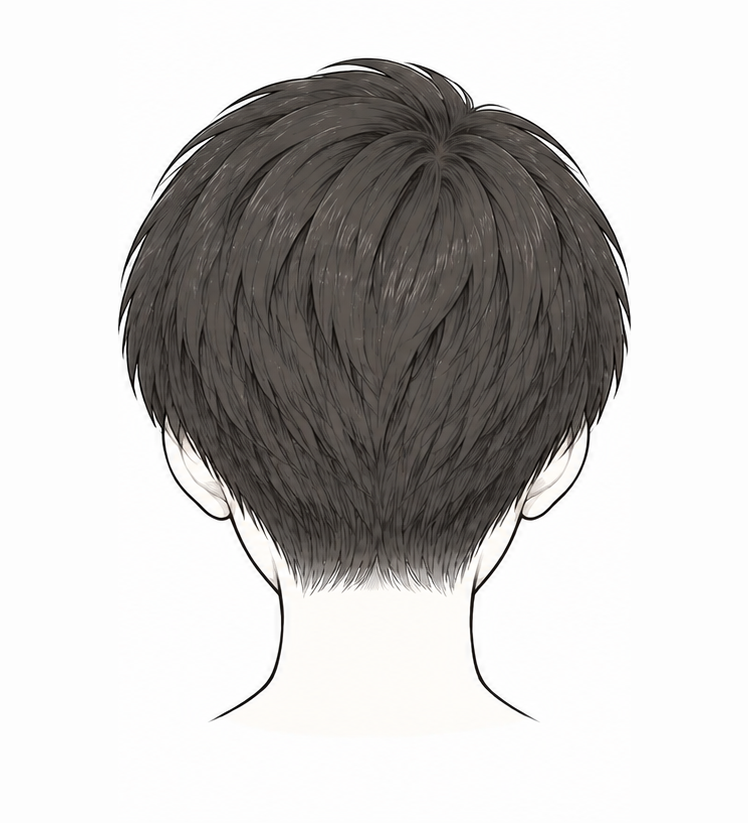
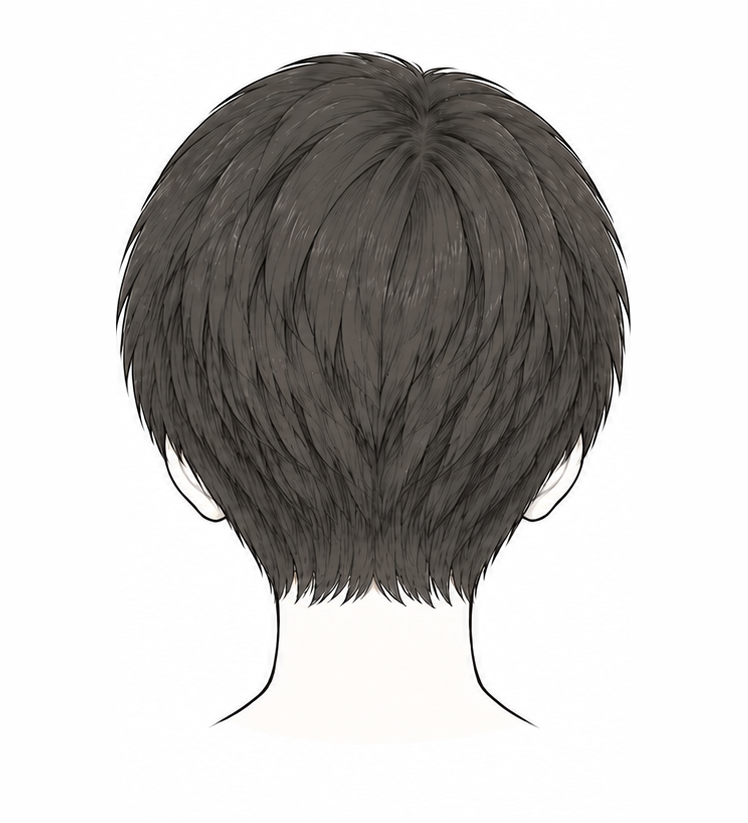
マッシュの見本イラストを作り直した版に差しかえ
横流しショートと見分けられるよう、前髪を水平にそろえた丸い形に。
スポーツ刈りの作り直し版はボウズと見分けられないため、まだ反映しない。

Changed region(s): [[0.1537, 0.0608, 0.861, 0.8809], [0.2767, 0.8505, 0.3382, 0.8809]]

diff --git a/docs/image-review.md b/docs/image-review.md
@@ -122,3 +122,10 @@ Codexが生成した画像を、髪型データと並べて確認した結果。
 - **横（合格・登録）：** 耳全体が見える → 耳の上半分がかくれ耳たぶだけ見える → ほとんど見えない、の3段階がはっきりしている。襟足の長さもそろっている。
 - **正面（1回目は不合格、作り直して合格・登録）：** 作り直し版は「半分かかる」で横の髪が耳の真ん中まで下り、耳の下半分だけが見える。3つの段階がはっきりした。1回目の記録： 「かくす」は問題ない。「半分かかる」が「出す」とほぼ同じ絵で、耳に髪がかぶっていない。Codexの判定は「懸念なし」だったが、分割後の2枚を並べると見分けられない。不採用版は `img/compare/drafts/ears-front-*-r1.png`。作り直しの指示は [codex-ears-task.md](codex-ears-task.md) 8章。
 - アプリは、画像が登録されている向きだけを「違いを比べる」に出すようにした。正面の作り直しが合格し、耳まわりも「正面から／横から」の両方がそろった。
+
+## 似た髪型の見直し（2026-09-28）
+
+全10髪型を正面・横・後ろで並べて（`scripts/montage-styles.ps1`）確認した。
+
+- **マッシュ（作り直して合格・反映）：** 長めマッシュを参照画像にして作り直した。前髪が水平にそろった丸いきのこ形になり、横流しショートとはっきり見分けられる。長めマッシュとは、耳が完全にかくれない・襟足が短い点で区別できる。
+- **スポーツ刈り（作り直したが不合格・未反映）：** ボウズを参照画像にした結果、トップが伸びず前髪も見えず、ボウズ風とほぼ同じ絵になった（ツーブロックとは離れた）。公開版は前の絵のまま。新しい絵は `img/styles/sports-*.png` に置いてあるが、コミットしていない。
